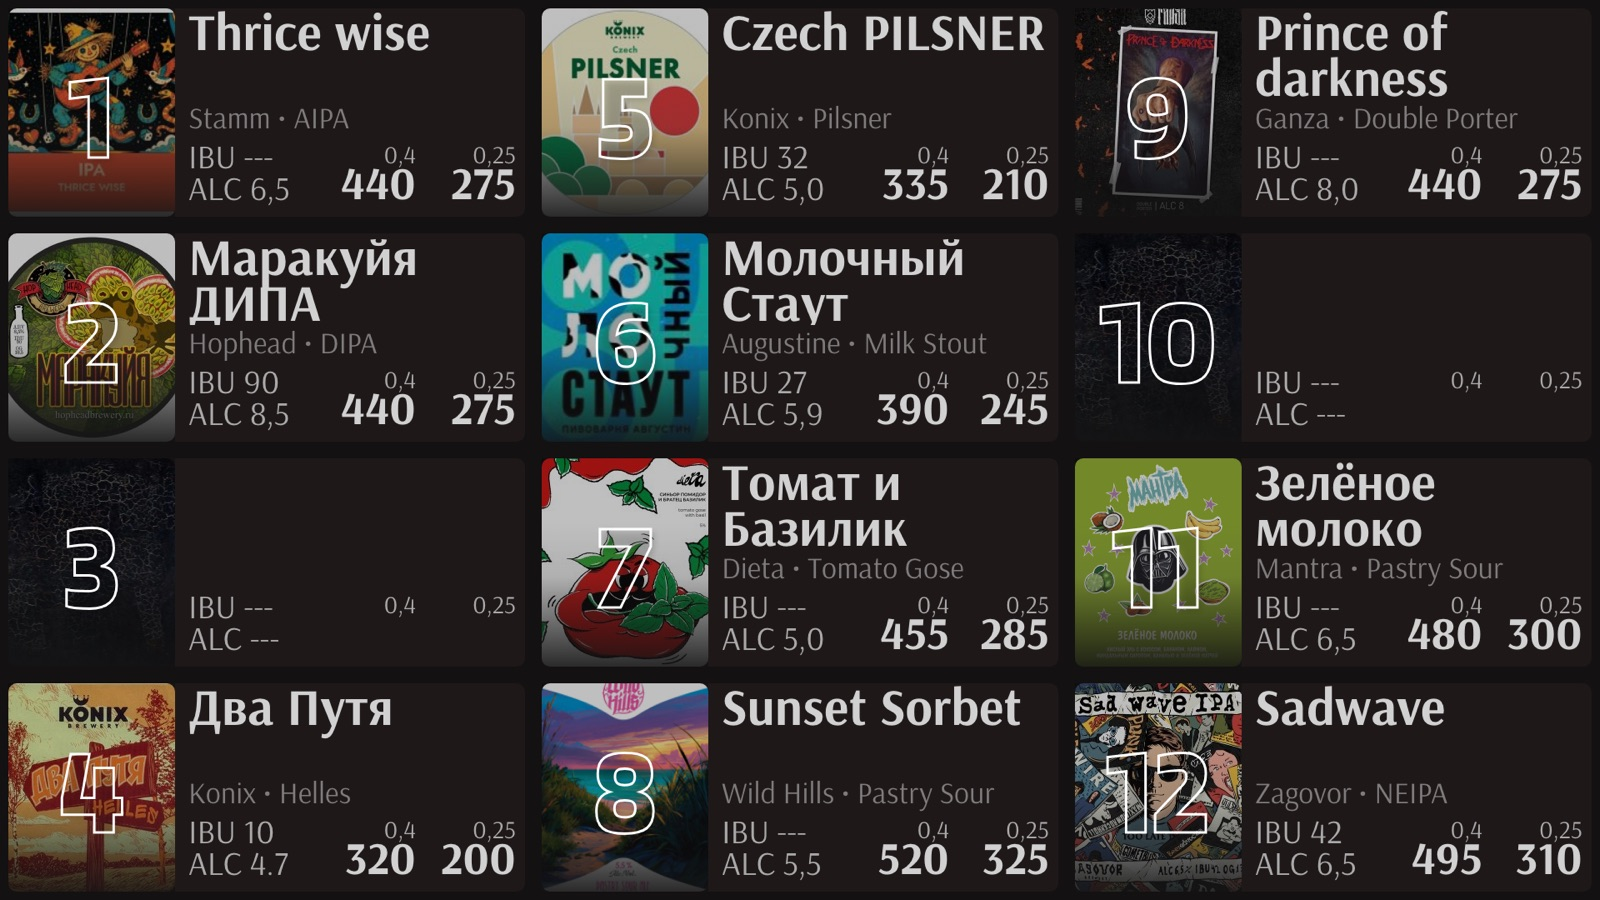
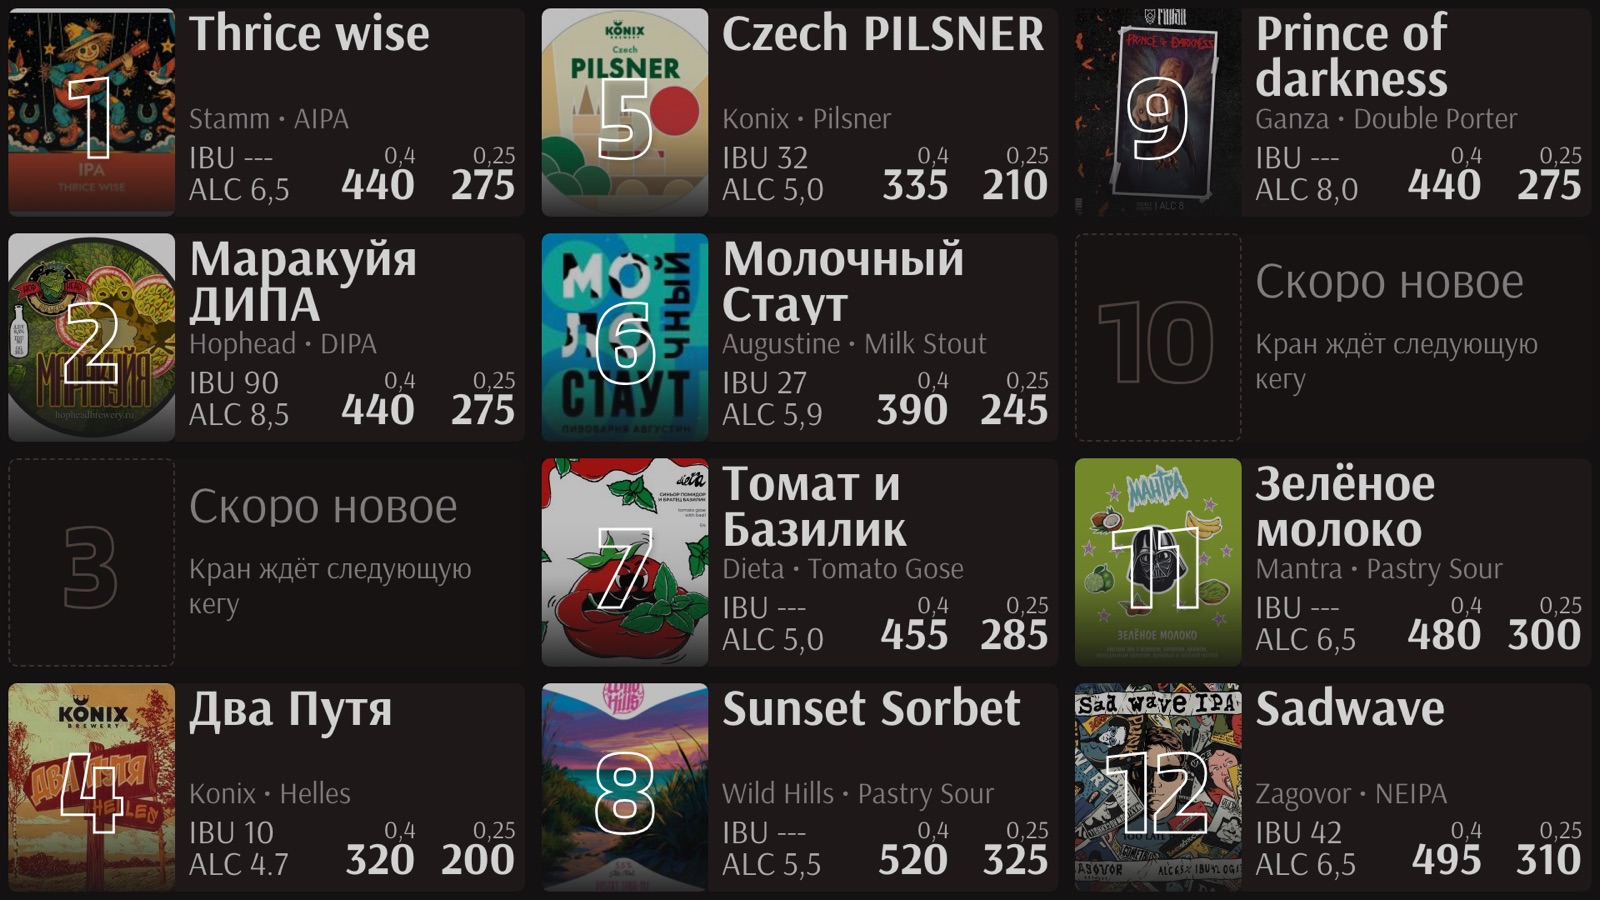
docs: refresh the readme for the new editor
The README now mentions free taps on the board and the new editor features. The screenshots and both banners are retaken from a production build on a copy of the production list.

diff --git a/README.ru.md b/README.ru.md
@@ -31,8 +31,8 @@
 ## Что внутри
 
 - **Выбор экрана** (`/`) -- две ссылки, по одной на телевизор.
-- **Табло** (`/tv/1`, `/tv/2`) -- 1920×1080, 12 кранов на экран. Свежий список табло забирает на месте, без перезагрузки, а после деплоя один раз перезагружается само. 25-й кран чередуется с последним местом второго экрана.
-- **Редактор** (`/editor`) -- названия, пивоварни, стили, IBU, крепость и цены, перестановка перетаскиванием, обложки (сжимаются в браузере до 250 px и хранятся прямо в списке).
+- **Табло** (`/tv/1`, `/tv/2`) -- 1920×1080, 12 кранов на экран. Свежий список табло забирает на месте, без перезагрузки, а после деплоя один раз перезагружается само. 25-й кран чередуется с последним местом второго экрана. Кран без названия показывается свободным: пунктирная рамка и "Скоро новое" вместо прочерков и пустых цен.
+- **Редактор** (`/editor`) -- названия, пивоварни, стили, IBU, крепость и цены, перестановка перетаскиванием, обложки (сжимаются в браузере до 250 px и хранятся прямо в списке). Краны разбиты по экранам, изменённые подсвечены. Кран можно стереть одной кнопкой и до перезагрузки страницы вернуть, а все несохранённые правки -- отменить разом.
 - **API** -- `GET /api/items` для табло, `PUT /api/items` для редактора, `GET /api/health`.
 
 ## Запуск

diff --git a/README.md b/README.md
@@ -31,8 +31,8 @@ Lives at [taplist.aimuzov.online](https://taplist.aimuzov.online). A static [Ast
 ## What's inside
 
 - **Screen picker** (`/`): two links, one per TV.
-- **Boards** (`/tv/1`, `/tv/2`): 1920×1080, 12 taps per screen. Boards pick up a fresh list in place, without a reload, and reload once after a deploy. The 25th tap alternates with the last slot of the second screen.
-- **Editor** (`/editor`): names, breweries, styles, IBU, ABV and prices, drag-and-drop reordering, covers (shrunk in the browser to 250 px and stored in the list itself).
+- **Boards** (`/tv/1`, `/tv/2`): 1920×1080, 12 taps per screen. Boards pick up a fresh list in place, without a reload, and reload once after a deploy. The 25th tap alternates with the last slot of the second screen. A tap without a name shows as free: a dashed frame and a "coming soon" line instead of dashes and empty prices.
+- **Editor** (`/editor`): names, breweries, styles, IBU, ABV and prices, drag-and-drop reordering, covers (shrunk in the browser to 250 px and stored in the list itself). Taps are grouped by screen and changed ones are highlighted. A tap can be wiped with one button and brought back until the page reloads, and all unsaved edits can be reverted at once.
 - **API**: `GET /api/items` for the boards, `PUT /api/items` for the editor, `GET /api/health`.
 
 ## Running
